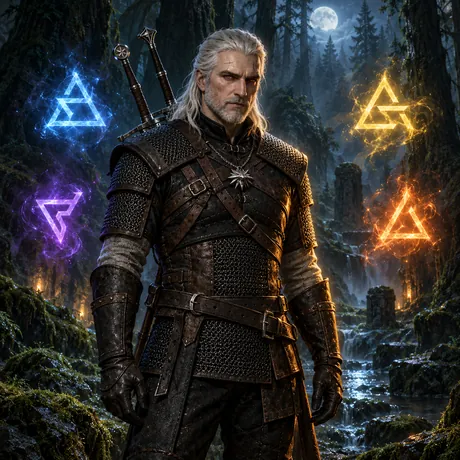
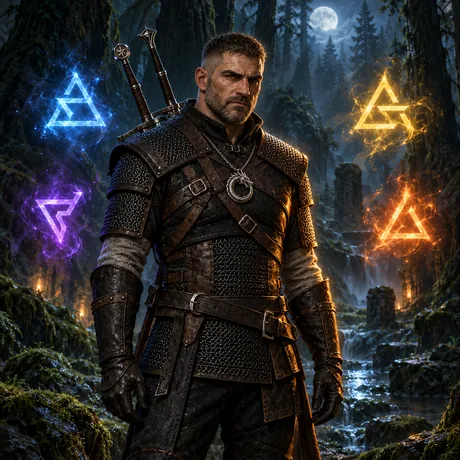
Ведьмак — свой персонаж вместо узнаваемого героя
Claude-Session: https://claude.ai/code/session_011aycyQpMCHxzpEkC6vRfRo

diff --git a/public/card-art.js b/public/card-art.js
@@ -2,7 +2,7 @@
 export const CARD_IMG = new Map([
   ['a_guide', 'f895fe83'], ['a_merc', 'a68453ed'], ['a_porter', 'f1dbdd7d'], ['b_courage', '759421bc'], ['b_energy', 'ae510134'], ['b_pies', '1961b926'],
   ['back_door', 'a40b94f2'], ['back_treasure', '1487fcf3'], ['c_alchemist', 'd408129d'], ['c_bard', 'f60245ae'], ['c_cleric', '38e11b19'], ['c_engineer', '4b82602d'],
-  ['c_mage', '171b976b'], ['c_rogue', 'f396e660'], ['c_warrior', '1e66494c'], ['c_witcher', '5fa91fa7'], ['d_duel', '8d3d33a1'], ['e_armored', '4bfbcd24'],
+  ['c_mage', '171b976b'], ['c_rogue', 'f396e660'], ['c_warrior', '1e66494c'], ['c_witcher', 'fdf602a3'], ['d_duel', '8d3d33a1'], ['e_armored', '4bfbcd24'],
   ['e_baby', '15447a6c'], ['e_cold', '59beb832'], ['e_decrepit', '58b15bac'], ['e_hungry', '2ffe0ddb'], ['e_morning', 'b71d3189'], ['e_pack', 'c6a39c7e'],
   ['e_rabid', '5af776e8'], ['e_seasoned', 'd02c9614'], ['ev_draft', '2eb4e378'], ['ev_fair', '6ac58699'], ['ev_flood', 'e34c827f'], ['ev_light', 'e2e64b90'],
   ['ev_luxtax', '77711f21'], ['ev_quake', '28f59e83'], ['ev_rollcall', 'b3a11f65'], ['ev_shift', '4dc67971'], ['ev_union', '4e97fd03'], ['h_hoard', 'c98eaff7'],
